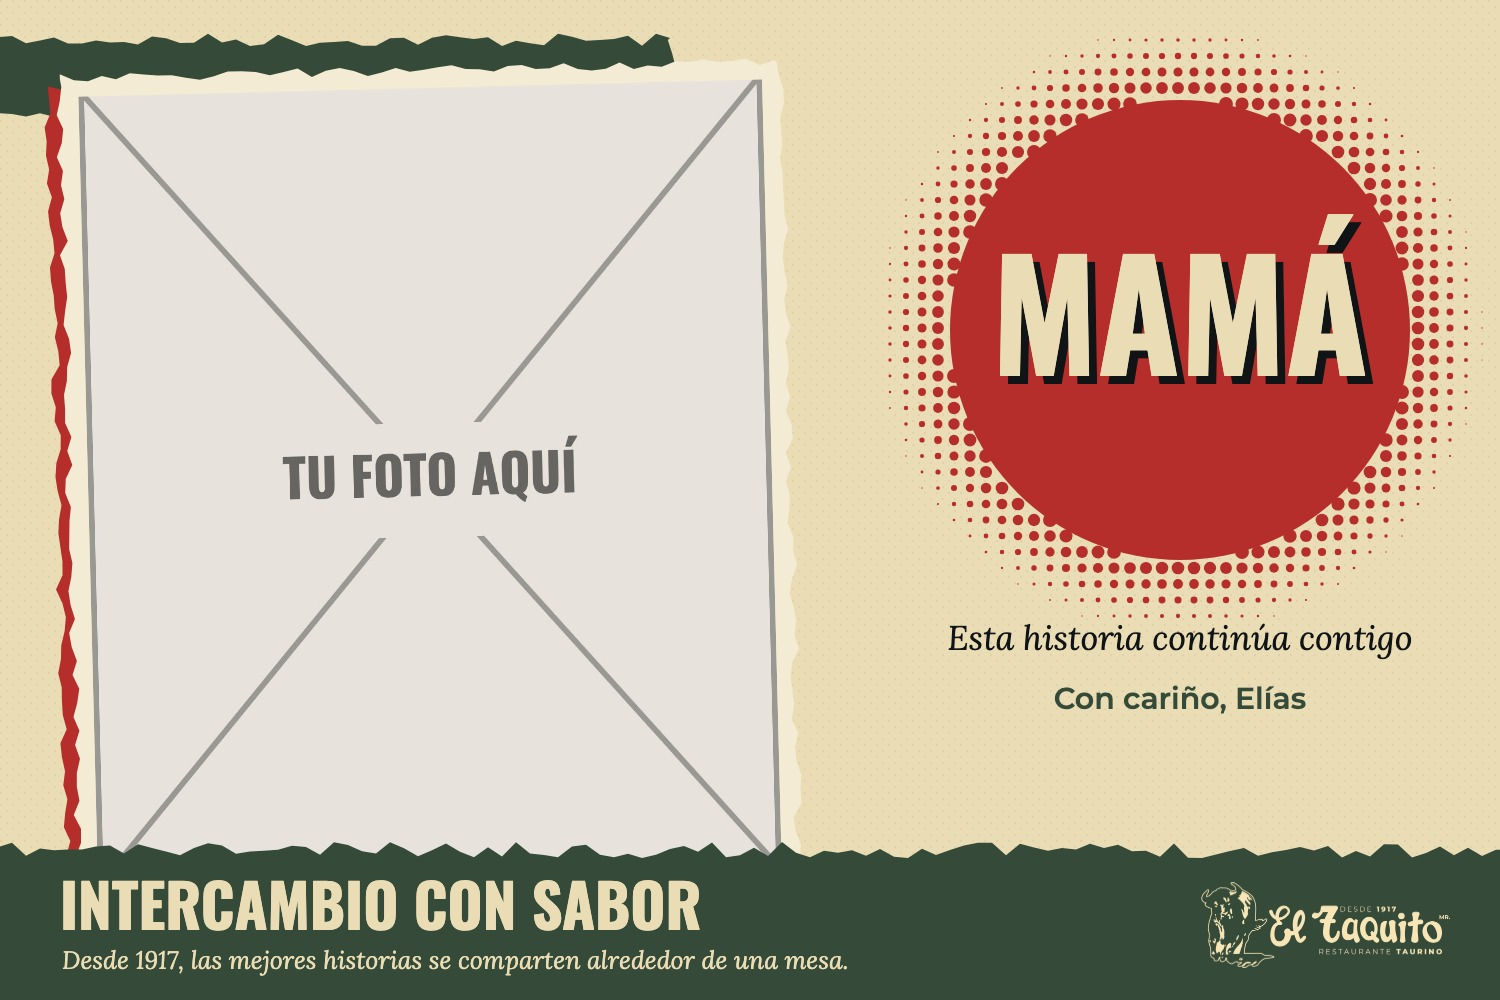
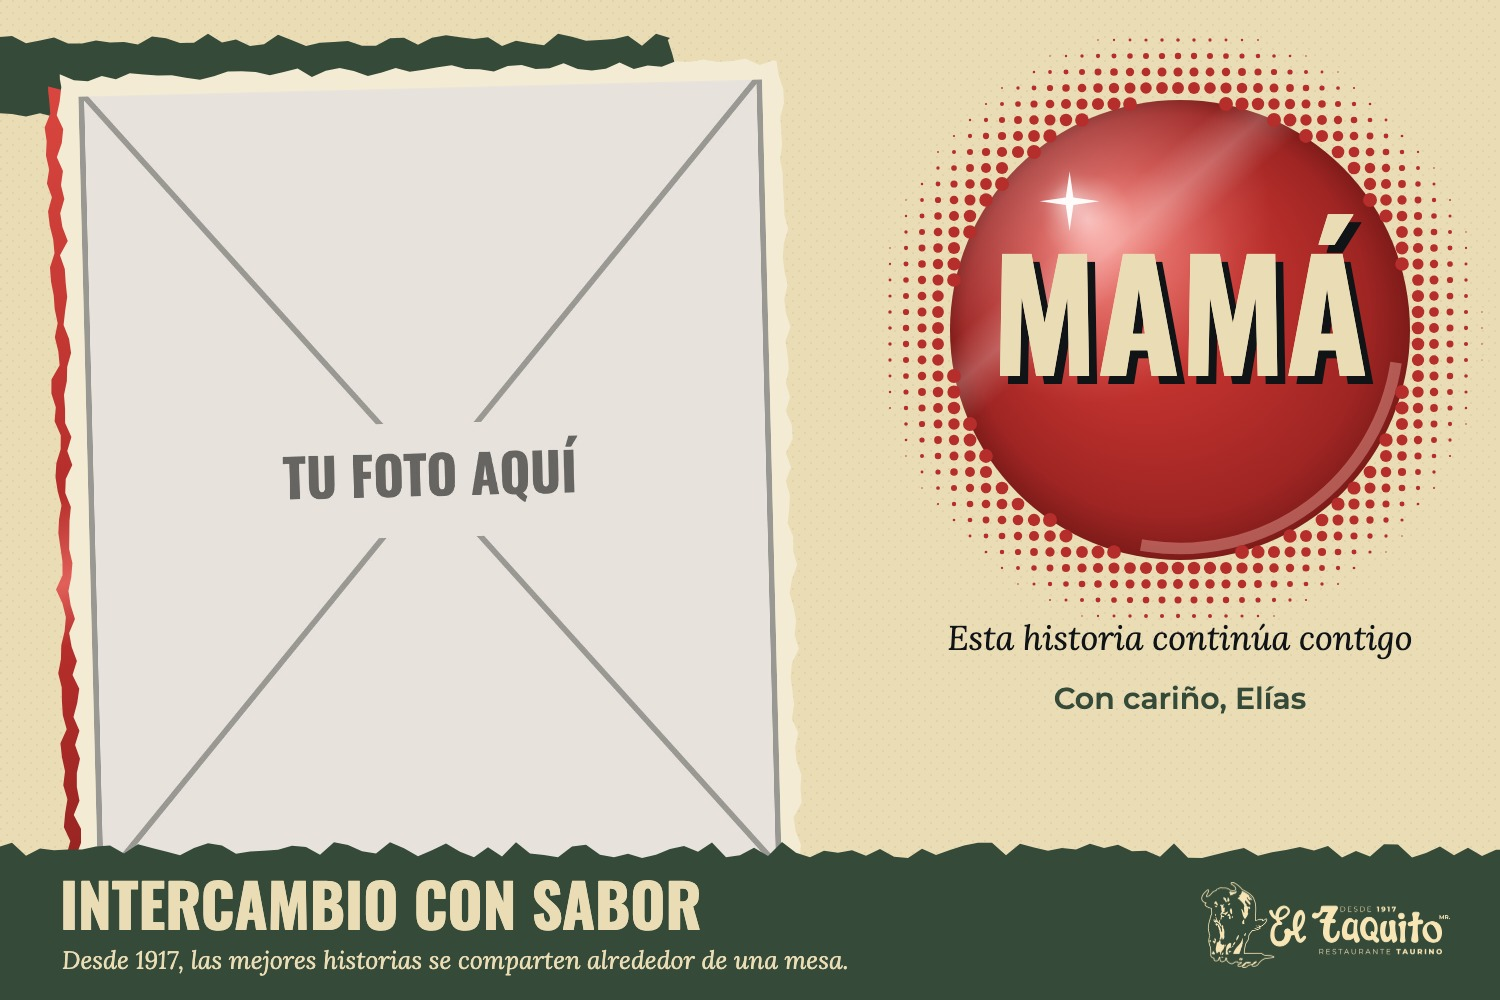
Rojo brilloso en la postal personalizada (círculo y franja)

diff --git a/demo.html b/demo.html
@@ -415,6 +415,31 @@ function torn(ctx,x,y,w,h,seed,amp){
   for(i=h;i>=0;i-=14) ctx.lineTo(x+(r()-.5)*amp,y+i);
   ctx.closePath();
 }
+/* Rojo brilloso: volumen, reflejo de luz, borde iluminado y un destello */
+function rojoBrillo(x,cx,cy,R){
+  const g=x.createRadialGradient(cx-R*.35,cy-R*.42,R*.05,cx,cy,R*1.02);
+  g.addColorStop(0,'#EE5F58');g.addColorStop(.42,'#C3332F');g.addColorStop(.85,'#9E2523');g.addColorStop(1,'#7A1A18');
+  x.fillStyle=g;x.beginPath();x.arc(cx,cy,R,0,7);x.fill();
+  x.save();x.beginPath();x.arc(cx,cy,R,0,7);x.clip();
+  const h=x.createRadialGradient(cx-R*.4,cy-R*.48,0,cx-R*.4,cy-R*.48,R*.8);
+  h.addColorStop(0,'rgba(255,255,255,.62)');h.addColorStop(.25,'rgba(255,240,235,.26)');h.addColorStop(1,'rgba(255,255,255,0)');
+  x.fillStyle=h;x.fillRect(cx-R,cy-R,2*R,2*R);
+  x.translate(cx,cy);x.rotate(-0.72);
+  const bd=x.createLinearGradient(0,-R*.62,0,-R*.3);
+  bd.addColorStop(0,'rgba(255,255,255,0)');bd.addColorStop(.5,'rgba(255,255,255,.22)');bd.addColorStop(1,'rgba(255,255,255,0)');
+  x.fillStyle=bd;x.fillRect(-R,-R*.62,2*R,R*.32);
+  x.restore();
+  x.save();x.lineWidth=R*.05;x.strokeStyle='rgba(255,190,175,.38)';x.beginPath();x.arc(cx,cy,R*.95,0.15,1.75);x.stroke();x.restore();
+  const sx=cx-R*.48,sy=cy-R*.56,s=R*.13;
+  x.save();x.fillStyle='rgba(255,255,255,.95)';x.shadowColor='rgba(255,255,255,.9)';x.shadowBlur=18;x.beginPath();
+  for(let i=0;i<8;i++){const rr=i%2?s*.18:s,a=i*Math.PI/4-Math.PI/2;x.lineTo(sx+Math.cos(a)*rr,sy+Math.sin(a)*rr)}
+  x.closePath();x.fill();x.restore();
+}
+function rojoSatinado(x,x0,y0,w,h){
+  const g=x.createLinearGradient(x0,y0,x0+w*.35,y0+h);
+  g.addColorStop(0,'#D9463F');g.addColorStop(.45,'#B52E2B');g.addColorStop(.55,'#E2605A');g.addColorStop(.62,'#B52E2B');g.addColorStop(1,'#861F1D');
+  return g;
+}
 function make(){
   if(!userImg) return;
   const W=1500,H=1000,c=document.createElement('canvas');c.width=W;c.height=H;const x=c.getContext('2d');
@@ -422,14 +447,14 @@ function make(){
   // dots texture
   x.fillStyle='rgba(120,95,50,.08)';for(let i=0;i<W;i+=6)for(let j=0;j<H;j+=6)if((i+j)%12==0)x.fillRect(i,j,2,2);
   // sun + halftone fringe
-  const cx=1180,cy=330,R=230;x.fillStyle='#B52E2B';x.beginPath();x.arc(cx,cy,R,0,7);x.fill();
+  const cx=1180,cy=330,R=230;rojoBrillo(x,cx,cy,R);x.fillStyle='#B52E2B';
   for(let yy=cy-R*1.4;yy<cy+R*1.4;yy+=16)for(let xx=cx-R*1.4;xx<cx+R*1.4;xx+=16){const d=Math.hypot(xx-cx,yy-cy);if(d>R&&d<R*1.35){const rr=7*(1-(d-R)/(R*.35));if(rr>.6){x.beginPath();x.arc(xx,yy,rr,0,7);x.fill()}}}
   // green strip top
   x.fillStyle='#354A39';torn(x,-30,40,700,80,7,14);x.fill();
   // photo B/N with offset red
   const pw=720,ph=820,px=70,py=70;
   x.save();x.translate(px+pw/2,py+ph/2);x.rotate(-0.025);
-  x.fillStyle='#B52E2B';torn(x,-pw/2-12,-ph/2+12,pw,ph,3,10);x.fill();
+  x.fillStyle=rojoSatinado(x,-pw/2-12,-ph/2+12,pw,ph);torn(x,-pw/2-12,-ph/2+12,pw,ph,3,10);x.fill();
   x.fillStyle='#F3EBD3';torn(x,-pw/2,-ph/2,pw,ph,5,10);x.fill();
   const iw=pw-36,ih=ph-36,s=Math.max(iw/userImg.width,ih/userImg.height);
   x.save();x.beginPath();x.rect(-iw/2,-ih/2,iw,ih);x.clip();

diff --git a/index.html b/index.html
@@ -416,6 +416,31 @@ function torn(ctx,x,y,w,h,seed,amp){
   for(i=h;i>=0;i-=14) ctx.lineTo(x+(r()-.5)*amp,y+i);
   ctx.closePath();
 }
+/* Rojo brilloso: volumen, reflejo de luz, borde iluminado y un destello */
+function rojoBrillo(x,cx,cy,R){
+  const g=x.createRadialGradient(cx-R*.35,cy-R*.42,R*.05,cx,cy,R*1.02);
+  g.addColorStop(0,'#EE5F58');g.addColorStop(.42,'#C3332F');g.addColorStop(.85,'#9E2523');g.addColorStop(1,'#7A1A18');
+  x.fillStyle=g;x.beginPath();x.arc(cx,cy,R,0,7);x.fill();
+  x.save();x.beginPath();x.arc(cx,cy,R,0,7);x.clip();
+  const h=x.createRadialGradient(cx-R*.4,cy-R*.48,0,cx-R*.4,cy-R*.48,R*.8);
+  h.addColorStop(0,'rgba(255,255,255,.62)');h.addColorStop(.25,'rgba(255,240,235,.26)');h.addColorStop(1,'rgba(255,255,255,0)');
+  x.fillStyle=h;x.fillRect(cx-R,cy-R,2*R,2*R);
+  x.translate(cx,cy);x.rotate(-0.72);
+  const bd=x.createLinearGradient(0,-R*.62,0,-R*.3);
+  bd.addColorStop(0,'rgba(255,255,255,0)');bd.addColorStop(.5,'rgba(255,255,255,.22)');bd.addColorStop(1,'rgba(255,255,255,0)');
+  x.fillStyle=bd;x.fillRect(-R,-R*.62,2*R,R*.32);
+  x.restore();
+  x.save();x.lineWidth=R*.05;x.strokeStyle='rgba(255,190,175,.38)';x.beginPath();x.arc(cx,cy,R*.95,0.15,1.75);x.stroke();x.restore();
+  const sx=cx-R*.48,sy=cy-R*.56,s=R*.13;
+  x.save();x.fillStyle='rgba(255,255,255,.95)';x.shadowColor='rgba(255,255,255,.9)';x.shadowBlur=18;x.beginPath();
+  for(let i=0;i<8;i++){const rr=i%2?s*.18:s,a=i*Math.PI/4-Math.PI/2;x.lineTo(sx+Math.cos(a)*rr,sy+Math.sin(a)*rr)}
+  x.closePath();x.fill();x.restore();
+}
+function rojoSatinado(x,x0,y0,w,h){
+  const g=x.createLinearGradient(x0,y0,x0+w*.35,y0+h);
+  g.addColorStop(0,'#D9463F');g.addColorStop(.45,'#B52E2B');g.addColorStop(.55,'#E2605A');g.addColorStop(.62,'#B52E2B');g.addColorStop(1,'#861F1D');
+  return g;
+}
 function make(){
   if(!userImg) return;
   const W=1500,H=1000,c=document.createElement('canvas');c.width=W;c.height=H;const x=c.getContext('2d');
@@ -423,14 +448,14 @@ function make(){
   // dots texture
   x.fillStyle='rgba(120,95,50,.08)';for(let i=0;i<W;i+=6)for(let j=0;j<H;j+=6)if((i+j)%12==0)x.fillRect(i,j,2,2);
   // sun + halftone fringe
-  const cx=1180,cy=330,R=230;x.fillStyle='#B52E2B';x.beginPath();x.arc(cx,cy,R,0,7);x.fill();
+  const cx=1180,cy=330,R=230;rojoBrillo(x,cx,cy,R);x.fillStyle='#B52E2B';
   for(let yy=cy-R*1.4;yy<cy+R*1.4;yy+=16)for(let xx=cx-R*1.4;xx<cx+R*1.4;xx+=16){const d=Math.hypot(xx-cx,yy-cy);if(d>R&&d<R*1.35){const rr=7*(1-(d-R)/(R*.35));if(rr>.6){x.beginPath();x.arc(xx,yy,rr,0,7);x.fill()}}}
   // green strip top
   x.fillStyle='#354A39';torn(x,-30,40,700,80,7,14);x.fill();
   // photo B/N with offset red
   const pw=720,ph=820,px=70,py=70;
   x.save();x.translate(px+pw/2,py+ph/2);x.rotate(-0.025);
-  x.fillStyle='#B52E2B';torn(x,-pw/2-12,-ph/2+12,pw,ph,3,10);x.fill();
+  x.fillStyle=rojoSatinado(x,-pw/2-12,-ph/2+12,pw,ph);torn(x,-pw/2-12,-ph/2+12,pw,ph,3,10);x.fill();
   x.fillStyle='#F3EBD3';torn(x,-pw/2,-ph/2,pw,ph,5,10);x.fill();
   const iw=pw-36,ih=ph-36,s=Math.max(iw/userImg.width,ih/userImg.height);
   x.save();x.beginPath();x.rect(-iw/2,-ih/2,iw,ih);x.clip();
